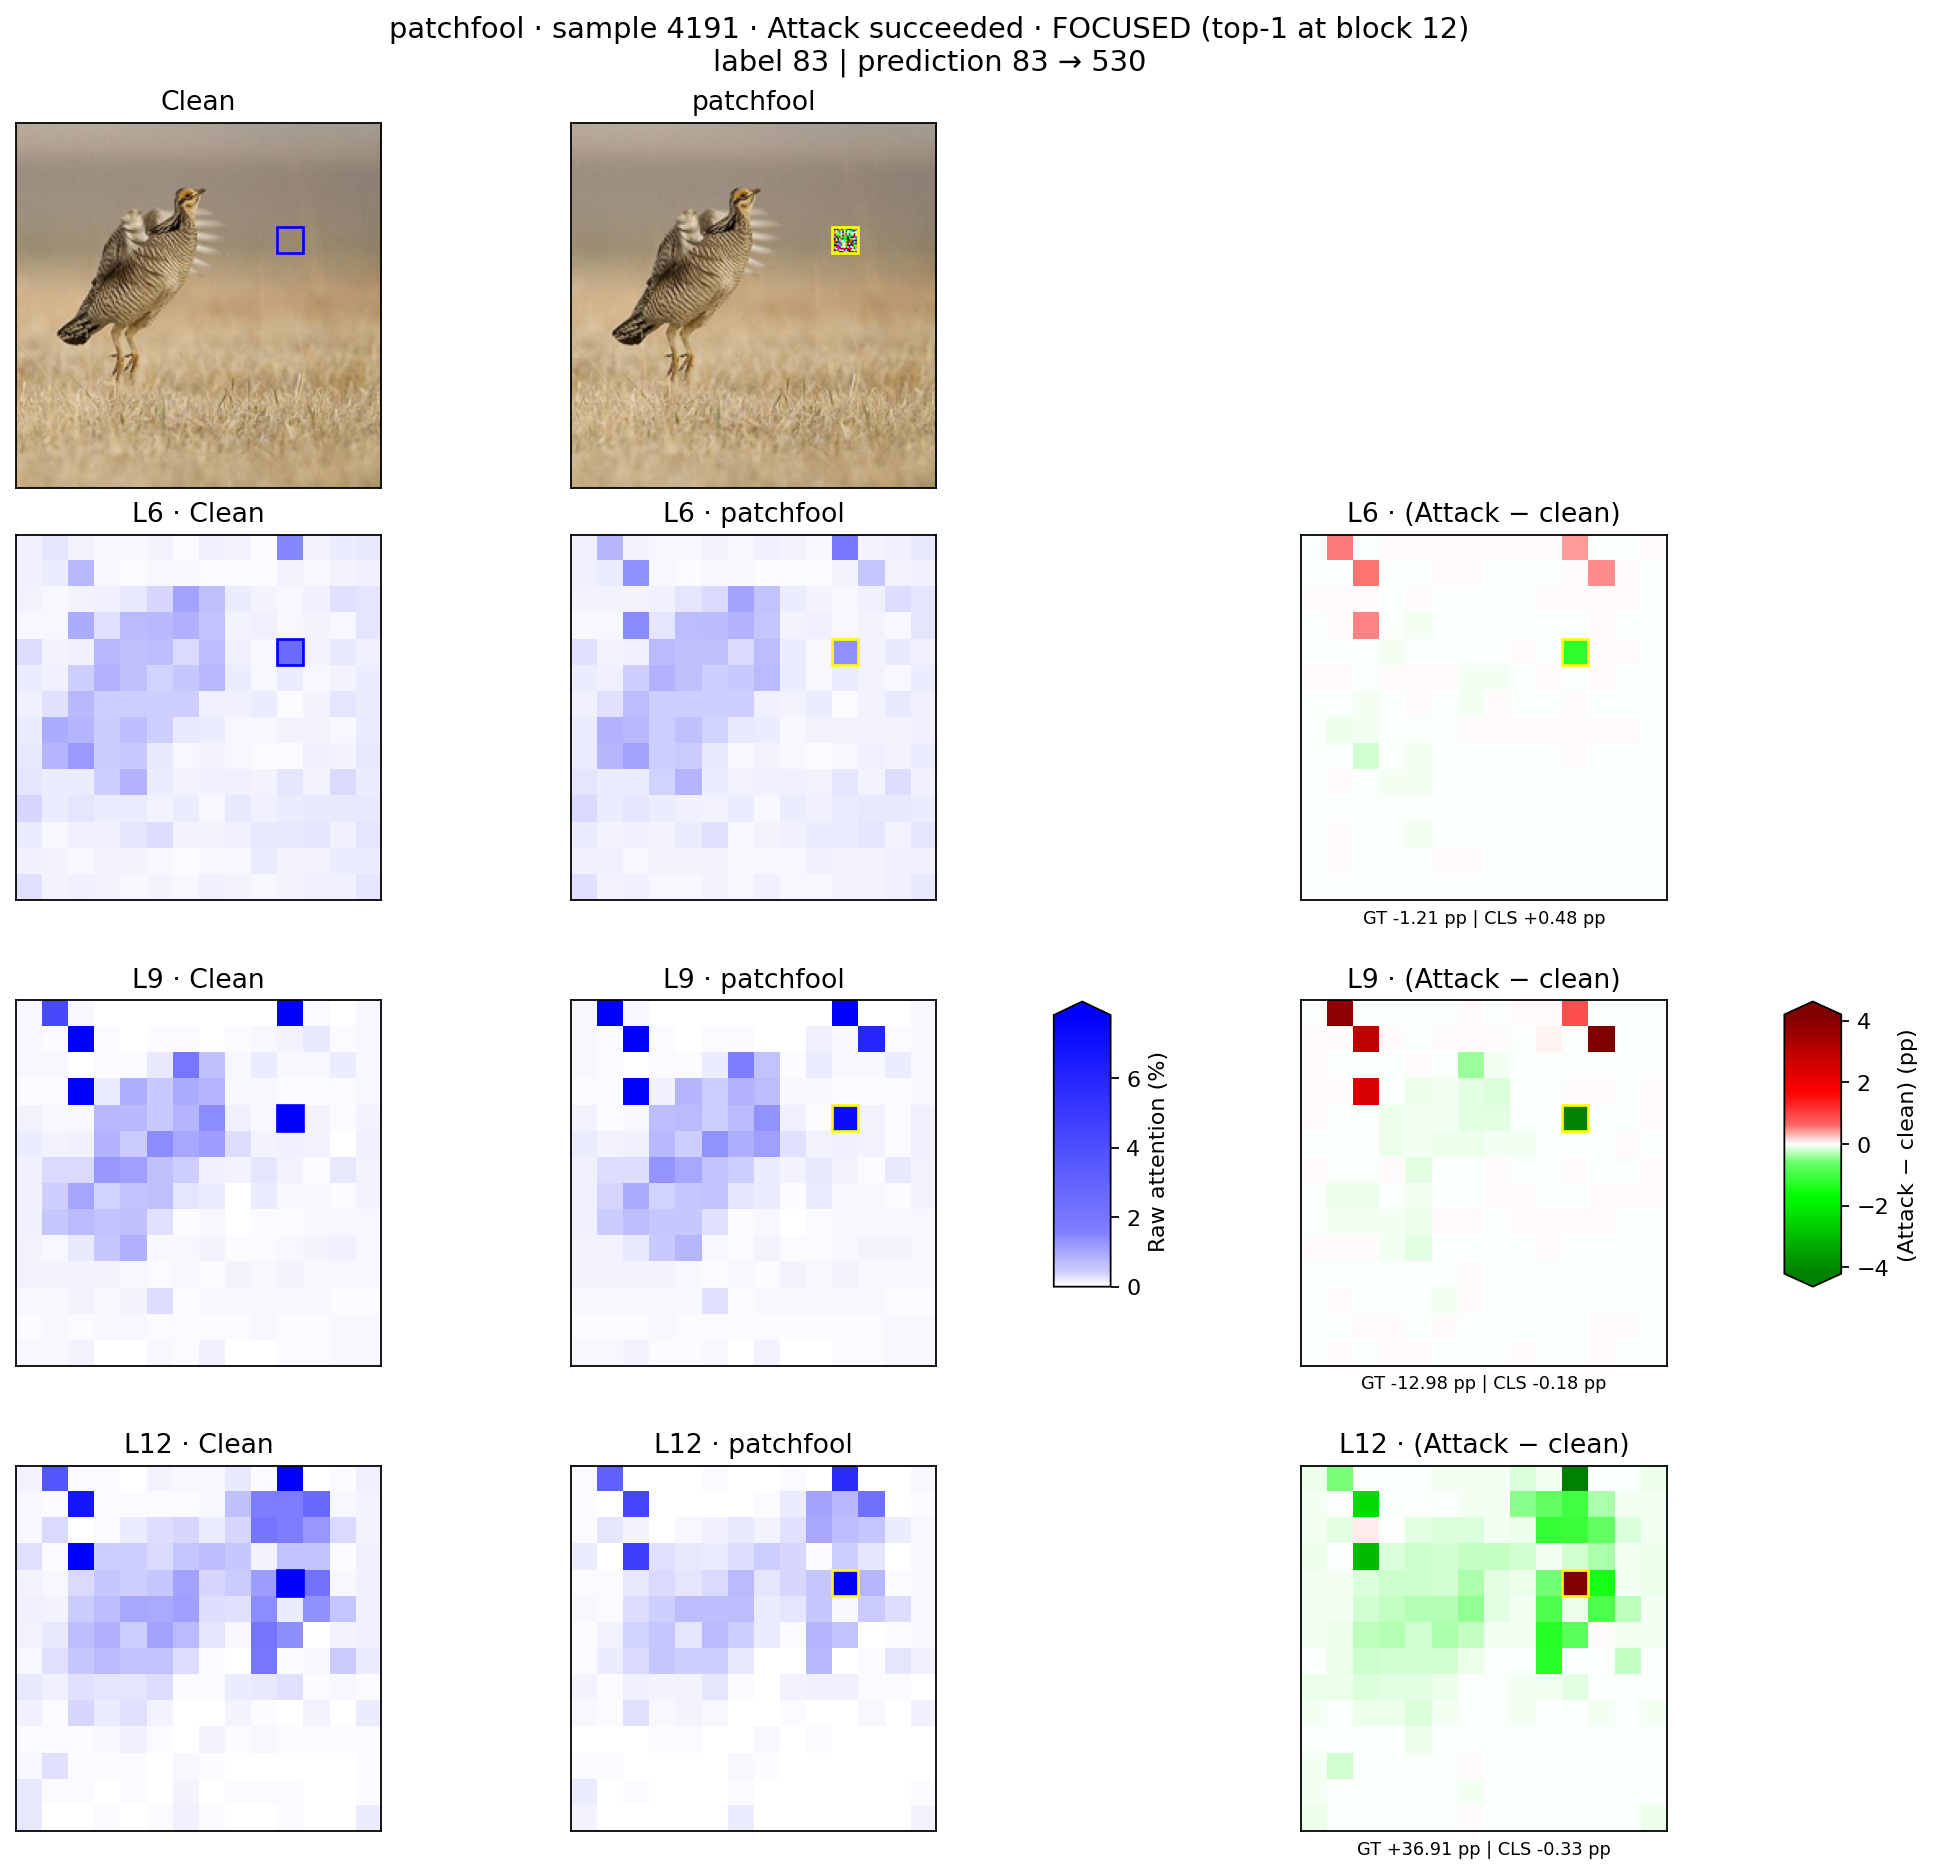
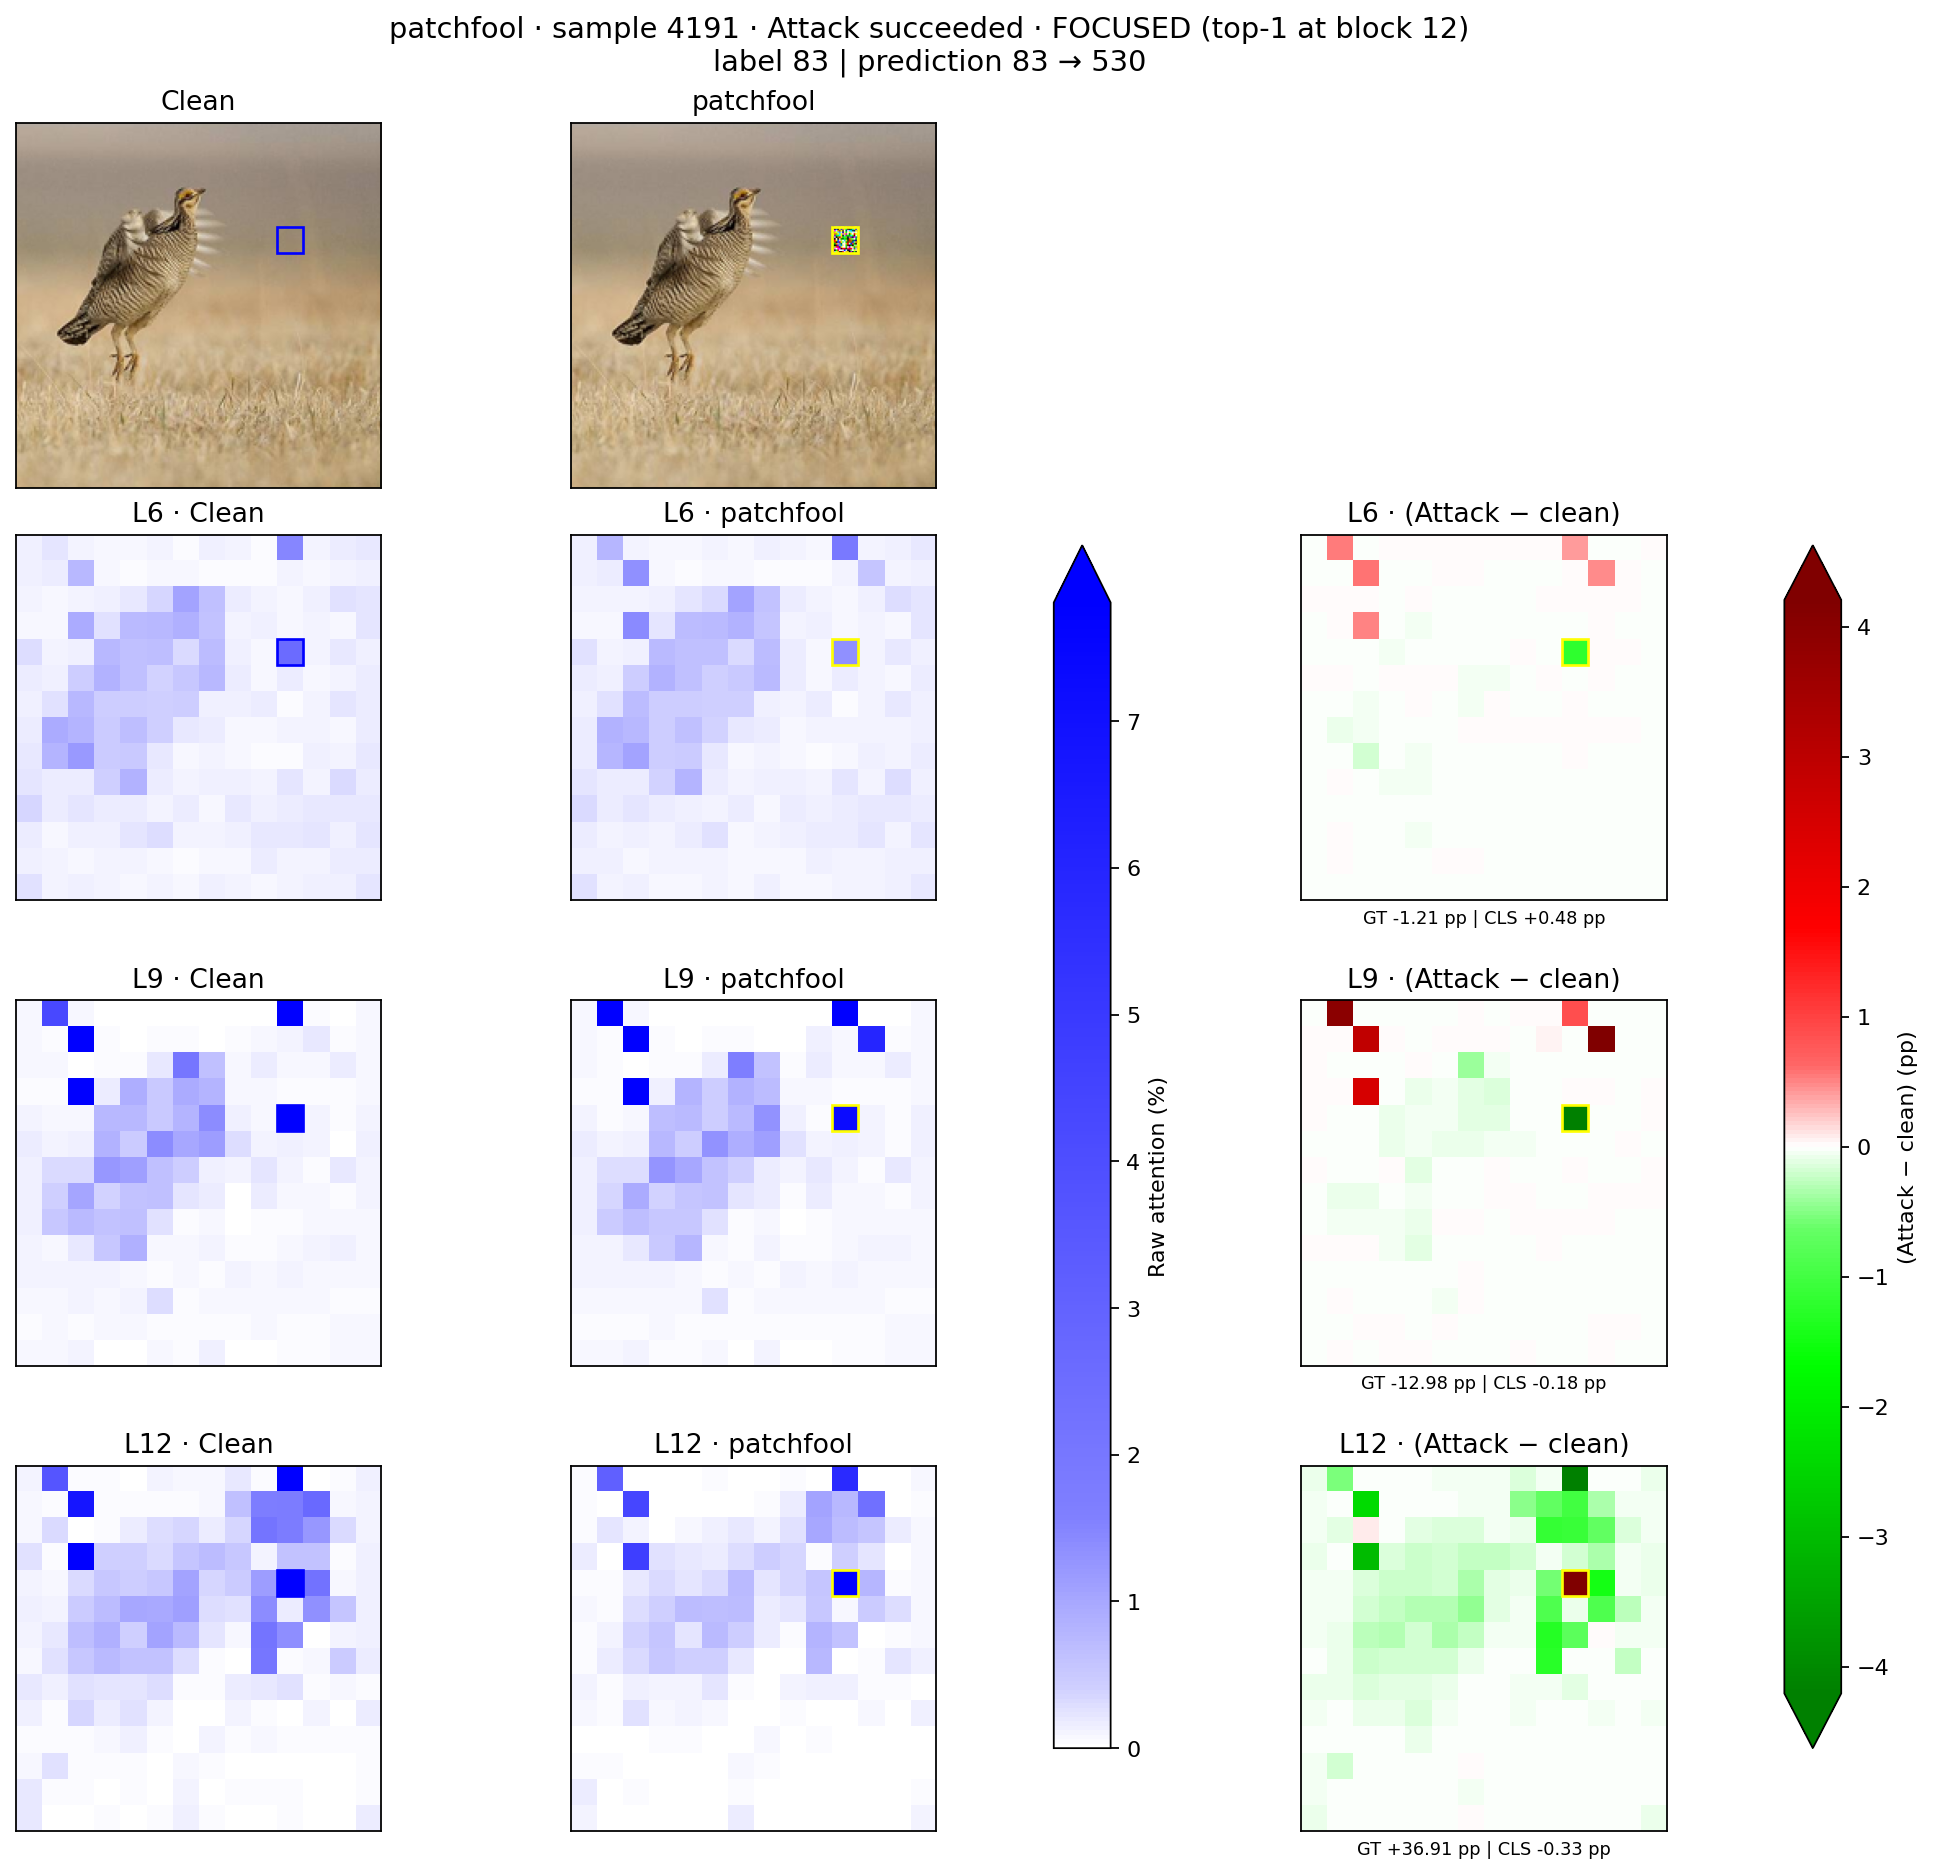
Long colorbars for few-layer maps (matches attack_success_L6_L9_L12)

Changed region(s): [[0.8941, 0.2785, 0.9866, 0.9285], [0.5242, 0.2785, 0.6166, 0.9285]]

diff --git a/01_patch_attack_detector/experiments/characterization/02_compare_attention_success_failure.py b/01_patch_attack_detector/experiments/characterization/02_compare_attention_success_failure.py
@@ -224,12 +224,13 @@ def draw_maps(data, manifest, attack, sample_i, metrics, layers, scales, status_
                 cls_gain = metrics['cls_delta'][sample_i, layer_i] * 100
                 axis.set_xlabel(f'GT {gt_gain:+.2f} pp | CLS {cls_gain:+.2f} pp', fontsize=8)
     # raw(파랑)는 Clean/Attack이 같은 스케일이라 하나만 두고, 차이 컬러바와 길이·위치를 맞춘다.
-    # 위치는 예전 파랑 컬러바 자리(그림 가운데쯤), 길이도 그때 정도로 둔다.
+    # 12개 레이어 그림은 짧게(그림 가운데쯤), 레이어 몇 개만 그린 그림은 행 전체 높이로 길게 둔다.
+    bar_box = [.1, .064, .35, .928] if len(layers) <= 4 else [.1, .42, .35, .22]
     for grid_col, image, label, extend in [(2, column_image[0], 'Raw attention (%)', 'max'),
                                              (4, column_image[2], '(Attack − clean) (pp)', 'both')]:
         holder = figure.add_subplot(grid[1:, grid_col])
         holder.set_axis_off()
-        figure.colorbar(image, cax=holder.inset_axes([.1, .42, .35, .22]), extend=extend, label=label)
+        figure.colorbar(image, cax=holder.inset_axes(bar_box), extend=extend, label=label)
     label_value = int(data['label'][sample_i])
     clean_pred = int(data['clean__prediction'][sample_i])
     attacked_pred = int(data[attack + '__prediction'][sample_i])
